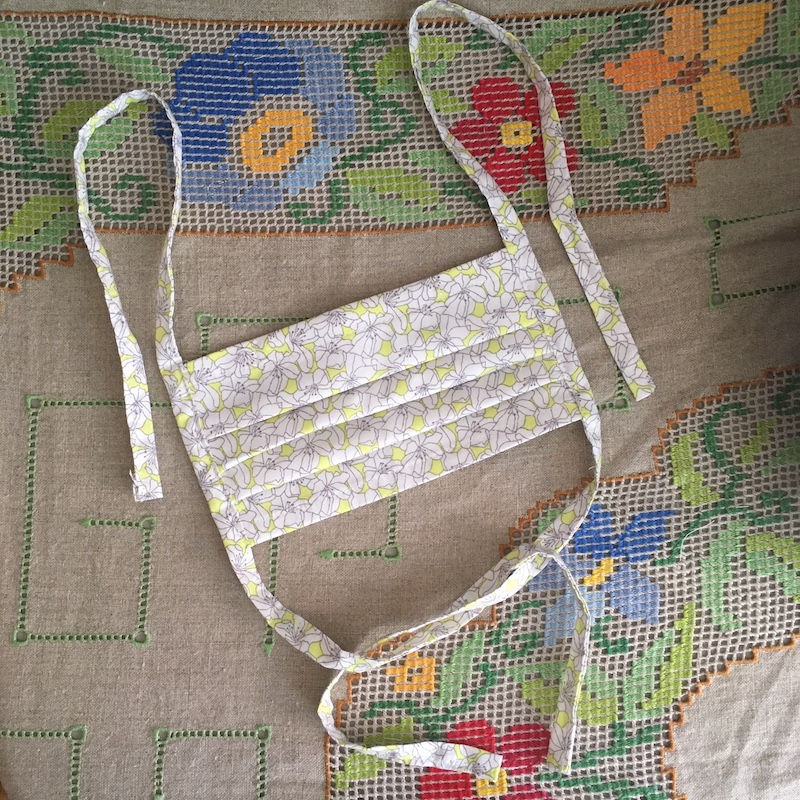
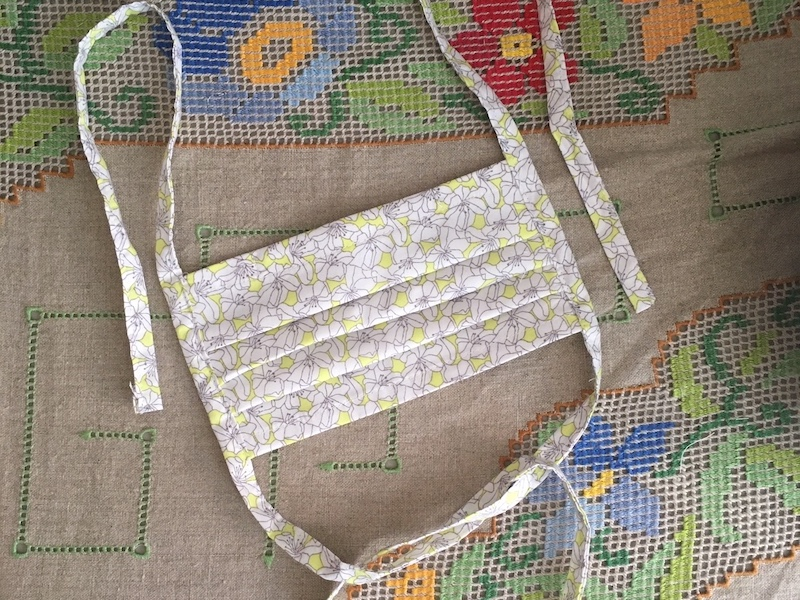
image size adjustments

diff --git a/melissa/masks.html b/melissa/masks.html
@@ -16,26 +16,39 @@
 		</header>
 
 		<section id="masks">
-			<h2>here are some of my masks</h2>
+			<h2>hey, here are the masks I keep talking about:</h2>
 				<section class="products">
 					<div id="kids">
-						<h3>kids</h3>
-						<div class="mask"><img src="images/kids1.jpeg" alt="smaller size teal fitted face mask for children" title="kid-sized fitted face mask with elastic bands"></div>
+						<div class="mask">
+							<img src="images/kids1.jpeg" alt="smaller size teal fitted face mask for children" title="kid-sized fitted face mask with elastic bands">
+							<p>kids; fitted</p>
+						</div>
 					</div>
-					<div id="adults">
-					<h3>adults</h3>
-						<div class="mask"><img src="images/adult1.jpeg" alt="white and yellow adult floral print pleated face mask to fit most with fabric to tie around head" title="pleated floral face mask"></div>
-						<div class="mask"><img src="images/adult2.jpeg" alt="various  adult pastel colored fitted face masks with elastic for around the ears" title="pastel fitted adult face masks"></div>
-						<div class="mask"><img src="images/adult3.jpeg" alt="adult white and yellow floral fitted face mask with adult black and green camo pattern face mask with elastic ear bands" title="adult fitted face masks in various prints"></div>
+					<div id="adult">
+						<div class="mask">
+							<img src="images/adult1.jpeg" alt="white and yellow adult floral print pleated face mask to fit most with fabric to tie around head" title="pleated floral face mask">
+							<p>adult; pleated with ties</p>
+						</div>
+						<div class="mask">
+							<img src="images/adult2.jpeg" alt="various  adult pastel colored fitted face masks with elastic for around the ears" title="pastel fitted adult face masks">
+							<p>adult; fitted, solid color</p>
+						</div>
+						<div class="mask">
+							<img src="images/adult3.jpeg" alt="adult white and yellow floral fitted face mask with adult black and green camo pattern face mask with elastic ear bands" title="adult fitted face masks in various prints">
+							<p>adult; fitted, patterns</p>
+						</div>
 					</div>
 					<div id="specialty">
-					<h3>specialty</h3>
-						<div class="mask"><img src="images/specialty.jpeg" alt="fitted face mask with sewn on pink flowers and elastic for around the ears" title="3D floral face mask"></div>
+						<div class="mask">
+							<img src="images/specialty.jpeg" alt="fitted face mask with sewn on pink flowers and elastic for around the ears" title="3D floral face mask">
+							<p>specialty</p>
+						</div>
 					</div>
 				</section>
 		</section>
 
 		<footer>
+			<a href="mailto:melissahlawson@gmail.com">contact</a></p>
 			<p>&copy; 2020 MHL</p>
 		</footer>
 	</body>

diff --git a/melissa/css/style.css b/melissa/css/style.css
@@ -8,7 +8,7 @@
 
 body {
 	background-color: #D0D9D7;
-	color: #052622;
+	color: #000000;
 	font-family: 'Raleway', sans-serif;
 	font-size: 16px; /*1m = 16px*/
 	line-height: 1.5em;
@@ -30,15 +30,12 @@ nav {
 }
 
 nav a {
+	background: blue;
 	color: #052622;
-	padding: 0 2em;
+	padding: 0 1em;
 	margin: 1em;
 	text-decoration: none;
 }
-
-/*.navbar a:hover {
-	background-color: #80E3D7;
-}*/
 
 h1 {
 	float: left;
@@ -91,18 +88,20 @@ footer {
 
 /*masks*/
 
-#products {
-	/*margin: 0 auto;*/
-}
-
 .mask {
 	background-color: #FAFFF7;
 	border-radius: 8px;
 	margin-bottom: 2em;
-	padding: 2em 1.5em 5em 1.5em;
+	padding: 2em 1.5em 1em 1.5em;
 }
 
-#kids, #adults, #specialty {
+.mask p {
+	padding: 1.5em 1em 1.5em 0;
+	text-align: right;
+
+}
+
+#kids, #adult, #specialty {
 	margin: 0 auto;
 	width: 50%;
 }
@@ -112,7 +111,7 @@ h3 {
 	padding: 1em 0;
 }
 
-#kids img, #adults img, #specialty img {
+#kids img, #adult img, #specialty img {
 	border-radius: 8px;
 	width: 100%;
 }

diff --git a/melissa/index.html b/melissa/index.html
@@ -30,6 +30,7 @@
 		</section>
 
 		<footer>
+			<a href="mailto:melissahlawson@gmail.com">contact</a></p>
 			<p>&copy; 2020 MHL</p>
 		</footer>
 	</body>
